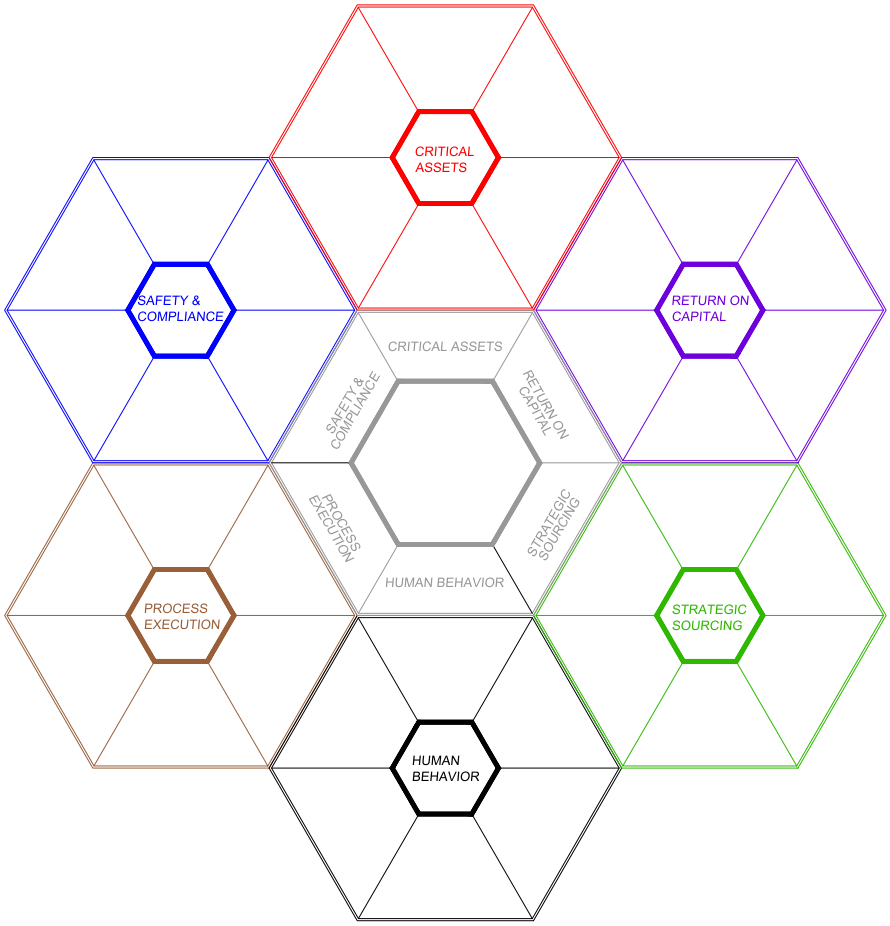
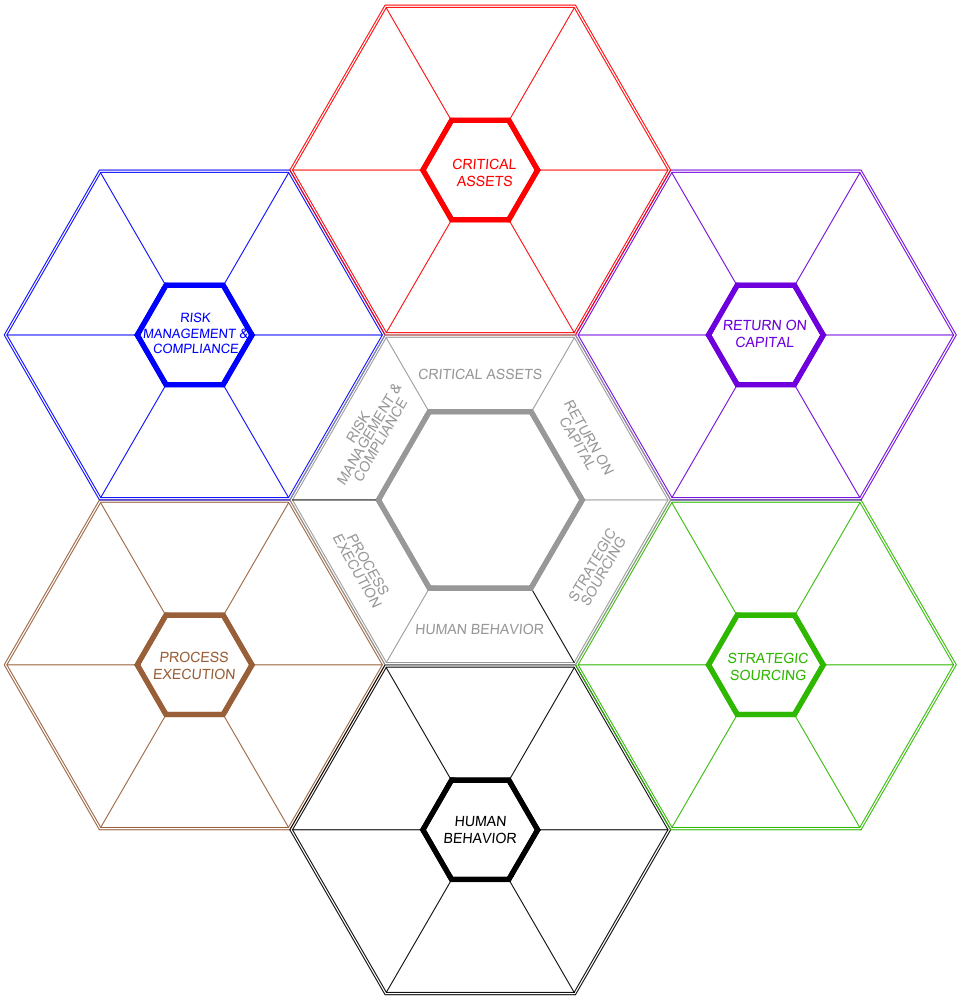
Risk Mgmt fixed in graphics

diff --git a/index.html b/index.html
@@ -218,11 +218,11 @@
             <p>Comments:</p> 
 
         </section>
-        
+
  <!-- NEW PAGE? -->    
         <section>
             <h2 class="SC">Risk Management & Compliance</h2>
-            <p><img class="Hexagon" src="images/RiskMgmtCompliance.png" /></p> <!--This image does not exist yet, waiting on Tyler Hatland-->
+            <p><img class="Hexagon" src="images/RiskManagementCompliance.png" /></p> <!--This image does not exist yet, waiting on Tyler Hatland-->
             <p>The following must be considered:</p>
             <ul>
               <li>Safety as the company's guiding principle</li>
